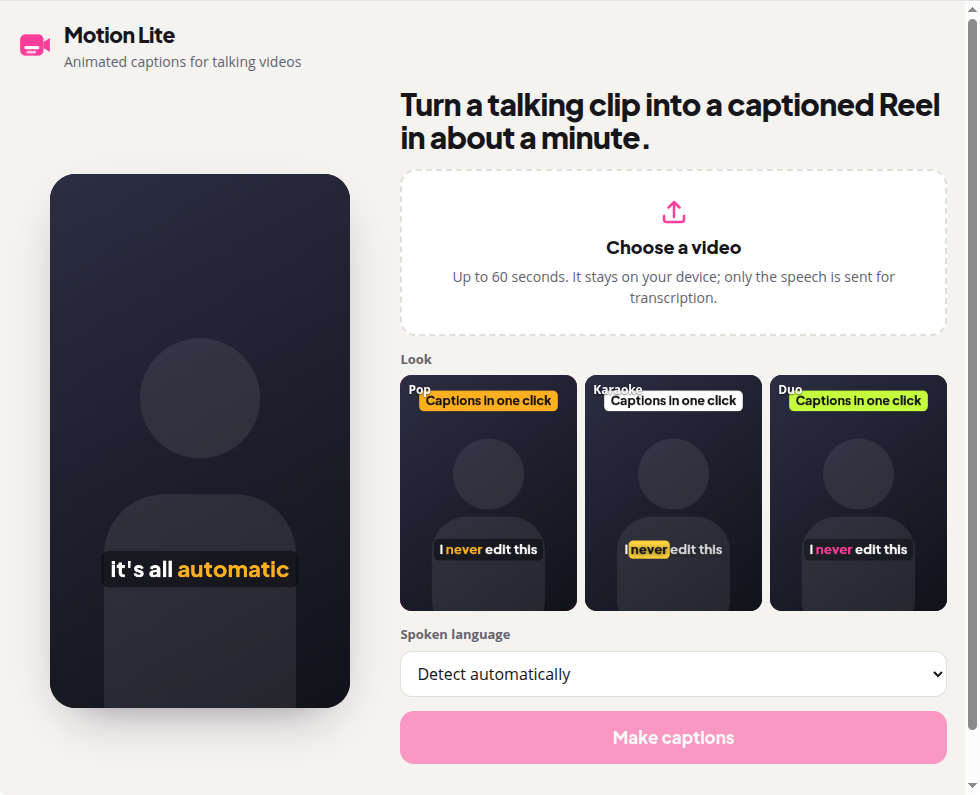
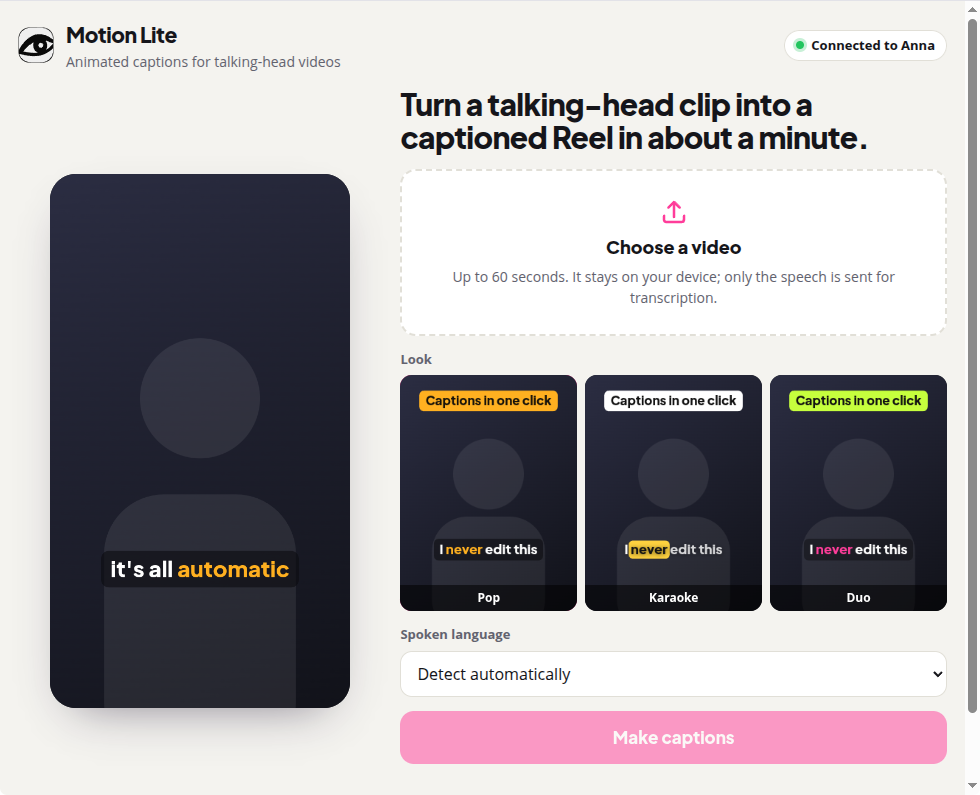
fix(stt): transcription falls back WAV -> M4A (AAC via WebCodecs) -> other STT models after the provider refused inline WAV; 'Connected to Anna' badge; talking-head copy; v0.1.1

diff --git a/app/bundle/app.js b/app/bundle/app.js
@@ -67,6 +67,72 @@ function mono(buf) {
 }
 
 // ── Captions: speech → text → phrases ────────────────────────────────────
+
+/**
+ * One piece of speech, as text. Anna routes transcription to the user's own STT provider, and providers differ in
+ * what they accept: on 2026-11-26 the first real run (Alibaba DashScope behind Anna) refused inline WAV with
+ * "url error, please check url". So the piece is tried as WAV, then as M4A (AAC, encoded here with WebCodecs), then
+ * with each other STT model the catalogue lists; the first combination that works is kept for every later piece.
+ */
+async function transcribePiece(samples, seg, lang, stt) {
+  const attempts = [];
+  if (stt.working) attempts.push(stt.working);
+  for (const a of [{ format: 'wav' }, { format: 'm4a' }]) if (!attempts.some((x) => x.format === a.format && !x.model)) attempts.push(a);
+  if (!stt.models) {
+    const cat = await anna.llm.catalog({ serviceType: 'stt' }).catch(() => null);
+    stt.models = (cat?.models ?? []).map((m) => m.modelName).filter(Boolean);
+  }
+  for (const m of stt.models) for (const format of ['m4a', 'wav']) if (!attempts.some((x) => x.model === m && x.format === format)) attempts.push({ format, model: m });
+  let lastErr = null;
+  for (const a of attempts) {
+    try {
+      const b64 = a.format === 'm4a' ? await m4aBase64(samples, seg.from, seg.to) : toBase64(wavBytes(samples, STT_RATE, seg.from, seg.to));
+      if (!b64) continue; // this browser cannot encode AAC
+      const r = await anna.audio.transcribe({ audioBase64: b64, format: a.format, ...(a.model ? { model: a.model } : {}), ...(lang ? { language: lang } : {}) }, { timeoutMs: 120_000 });
+      stt.working = a;
+      return String(r?.text ?? '').trim();
+    } catch (e) {
+      if (/QUOTA/i.test(String(e?.code ?? e?.message))) throw e; // out of credits: retrying other models would not help
+      lastErr = e;
+      stt.tried.push(`${a.model ?? 'default'}/${a.format}`);
+    }
+  }
+  throw new Error(`Transcription failed (${stt.tried.slice(-4).join(', ')}): ${String(lastErr?.message ?? lastErr).slice(0, 200)}`);
+}
+
+/** A piece of mono 16 kHz audio as base64 M4A (AAC-LC), or null when this browser has no AAC encoder. */
+async function m4aBase64(samples, from, to) {
+  if (!('AudioEncoder' in window)) return null;
+  let rate = 16000;
+  let up = 1;
+  if (!(await AudioEncoder.isConfigSupported({ codec: 'mp4a.40.2', sampleRate: 16000, numberOfChannels: 1 }).catch(() => ({}))).supported) {
+    if (!(await AudioEncoder.isConfigSupported({ codec: 'mp4a.40.2', sampleRate: 48000, numberOfChannels: 1 }).catch(() => ({}))).supported) return null;
+    rate = 48000;
+    up = 3; // 16 kHz → 48 kHz, linear
+  }
+  const a = Math.max(0, Math.floor(from * STT_RATE));
+  const b = Math.min(samples.length, Math.ceil(to * STT_RATE));
+  const src = samples.subarray(a, b);
+  const pcm = new Float32Array(src.length * up);
+  for (let i = 0; i < pcm.length; i++) {
+    const x = i / up;
+    const k = Math.floor(x);
+    const f = x - k;
+    pcm[i] = (src[k] ?? 0) * (1 - f) + (src[k + 1] ?? src[k] ?? 0) * f;
+  }
+  const muxer = new Muxer({ target: new ArrayBufferTarget(), audio: { codec: 'aac', numberOfChannels: 1, sampleRate: rate }, fastStart: 'in-memory', firstTimestampBehavior: 'offset' });
+  const enc = new AudioEncoder({ output: (chunk, meta) => muxer.addAudioChunk(chunk, meta), error: () => undefined });
+  enc.configure({ codec: 'mp4a.40.2', sampleRate: rate, numberOfChannels: 1, bitrate: 64_000 });
+  for (let s = 0; s < pcm.length; s += 4096) {
+    const n = Math.min(4096, pcm.length - s);
+    const ad = new AudioData({ format: 'f32-planar', sampleRate: rate, numberOfFrames: n, numberOfChannels: 1, timestamp: Math.round((s / rate) * 1e6), data: pcm.slice(s, s + n) });
+    enc.encode(ad);
+    ad.close();
+  }
+  await enc.flush();
+  muxer.finalize();
+  return toBase64(new Uint8Array(muxer.target.buffer));
+}
 async function makeCaptions() {
   if (!anna) throw new Error('Open Motion Lite inside Anna to make captions.');
   say($('status'), 'Listening for speech…');
@@ -82,16 +148,21 @@ async function makeCaptions() {
   const lang = $('lang').value || undefined;
   let done = 0;
   const texts = new Array(segs.length).fill('');
-  const queue = segs.map((s, i) => i);
+  const stt = { working: null, models: null, tried: [] };
+  const step = () => {
+    done++;
+    say($('status'), `Transcribing ${done} of ${segs.length}…`);
+    progress('mk', 0.1 + (0.7 * done) / segs.length);
+  };
+  // The first piece finds a format/model the user's STT provider accepts; the rest reuse it, three at a time.
+  texts[0] = await transcribePiece(samples, segs[0], lang, stt);
+  step();
+  const queue = segs.map((s, i) => i).slice(1);
   const worker = async () => {
     while (queue.length) {
       const i = queue.shift();
-      const b64 = toBase64(wavBytes(samples, STT_RATE, segs[i].from, segs[i].to));
-      const r = await anna.audio.transcribe({ audioBase64: b64, format: 'wav', ...(lang ? { language: lang } : {}) }, { timeoutMs: 120_000 });
-      texts[i] = String(r?.text ?? '').trim();
-      done++;
-      say($('status'), `Transcribing ${done} of ${segs.length}…`);
-      progress('mk', 0.1 + (0.7 * done) / segs.length);
+      texts[i] = await transcribePiece(samples, segs[i], lang, stt);
+      step();
     }
   };
   await Promise.all([worker(), worker(), worker()]);
@@ -292,7 +363,11 @@ async function main() {
   try {
     anna = await AnnaAppRuntime.connect();
     await anna.window.set_title({ title: 'Motion Lite' }).catch(() => undefined);
+    $('host').classList.add('on');
+    $('host-text').textContent = 'Connected to Anna';
+    $('host').title = 'Speech-to-text and AI captions run through the Anna host on your Anna credits';
   } catch {
+    $('host-text').textContent = 'Preview (not in Anna)';
     say($('status'), 'Preview mode: open in Anna to make captions.');
   }
   // The caption face must be loaded before the first frame is drawn, or the canvas falls back for the whole export.

diff --git a/app/bundle/index.html b/app/bundle/index.html
@@ -13,9 +13,10 @@
         <img class="mark" src="./motion.svg" alt="" />
         <div>
           <h1>Motion Lite</h1>
-          <p class="muted">Animated captions for talking videos</p>
+          <p class="muted">Animated captions for talking-head videos</p>
         </div>
       </div>
+      <span class="host" id="host"><span class="dot"></span><span id="host-text">Connecting to Anna…</span></span>
     </header>
 
     <section id="pick" class="pick">
@@ -23,7 +24,7 @@
         <canvas id="demo" width="540" height="960"></canvas>
       </div>
       <div class="pick-side">
-        <h2 class="lead">Turn a talking clip into a captioned Reel in about a minute.</h2>
+        <h2 class="lead">Turn a talking-head clip into a captioned Reel in about a minute.</h2>
         <label class="drop" for="file">
           <input type="file" id="file" accept="video/*" />
           <svg viewBox="0 0 24 24" aria-hidden="true"><path d="M12 16V4m0 0-4.5 4.5M12 4l4.5 4.5M4 15v3a2 2 0 0 0 2 2h12a2 2 0 0 0 2-2v-3" fill="none" stroke="currentColor" stroke-width="2" stroke-linecap="round" stroke-linejoin="round" /></svg>
@@ -88,6 +89,6 @@
 
     <!-- Not `hidden`: Chrome on Android draws no frames for a hidden video, so requestVideoFrameCallback never fires. -->
     <video id="v" playsinline preload="auto" class="src"></video>
-    <footer class="foot">Transcription and captions use your Anna credits. Your video is rendered on your own device.</footer>
+    <footer class="foot">Connected to the Anna host: speech-to-text and the AI captions run through Anna on your Anna credits. Your video itself is rendered on your own device and never uploaded.</footer>
   </body>
 </html>

diff --git a/app/bundle/style.css b/app/bundle/style.css
@@ -29,6 +29,9 @@ a { color: var(--acc); }
 .top { display: flex; align-items: center; justify-content: space-between; }
 .brand { display: flex; align-items: center; gap: 12px; }
 .mark { width: 36px; height: 36px; border-radius: 9px; }
+.host { display: inline-flex; align-items: center; gap: 7px; font-size: 13px; font-weight: 700; padding: 6px 12px; border-radius: 999px; background: var(--tile); box-shadow: inset 0 0 0 1px var(--line); }
+.host .dot { width: 8px; height: 8px; border-radius: 50%; background: #b8b6ad; }
+.host.on .dot { background: #22c55e; box-shadow: 0 0 0 3px color-mix(in srgb, #22c55e 25%, transparent); }
 .card { background: var(--tile); border-radius: var(--r); padding: 16px; display: grid; gap: 12px; }
 
 /* ── Pick ─────────────────────────────────────────────────────────────── */
